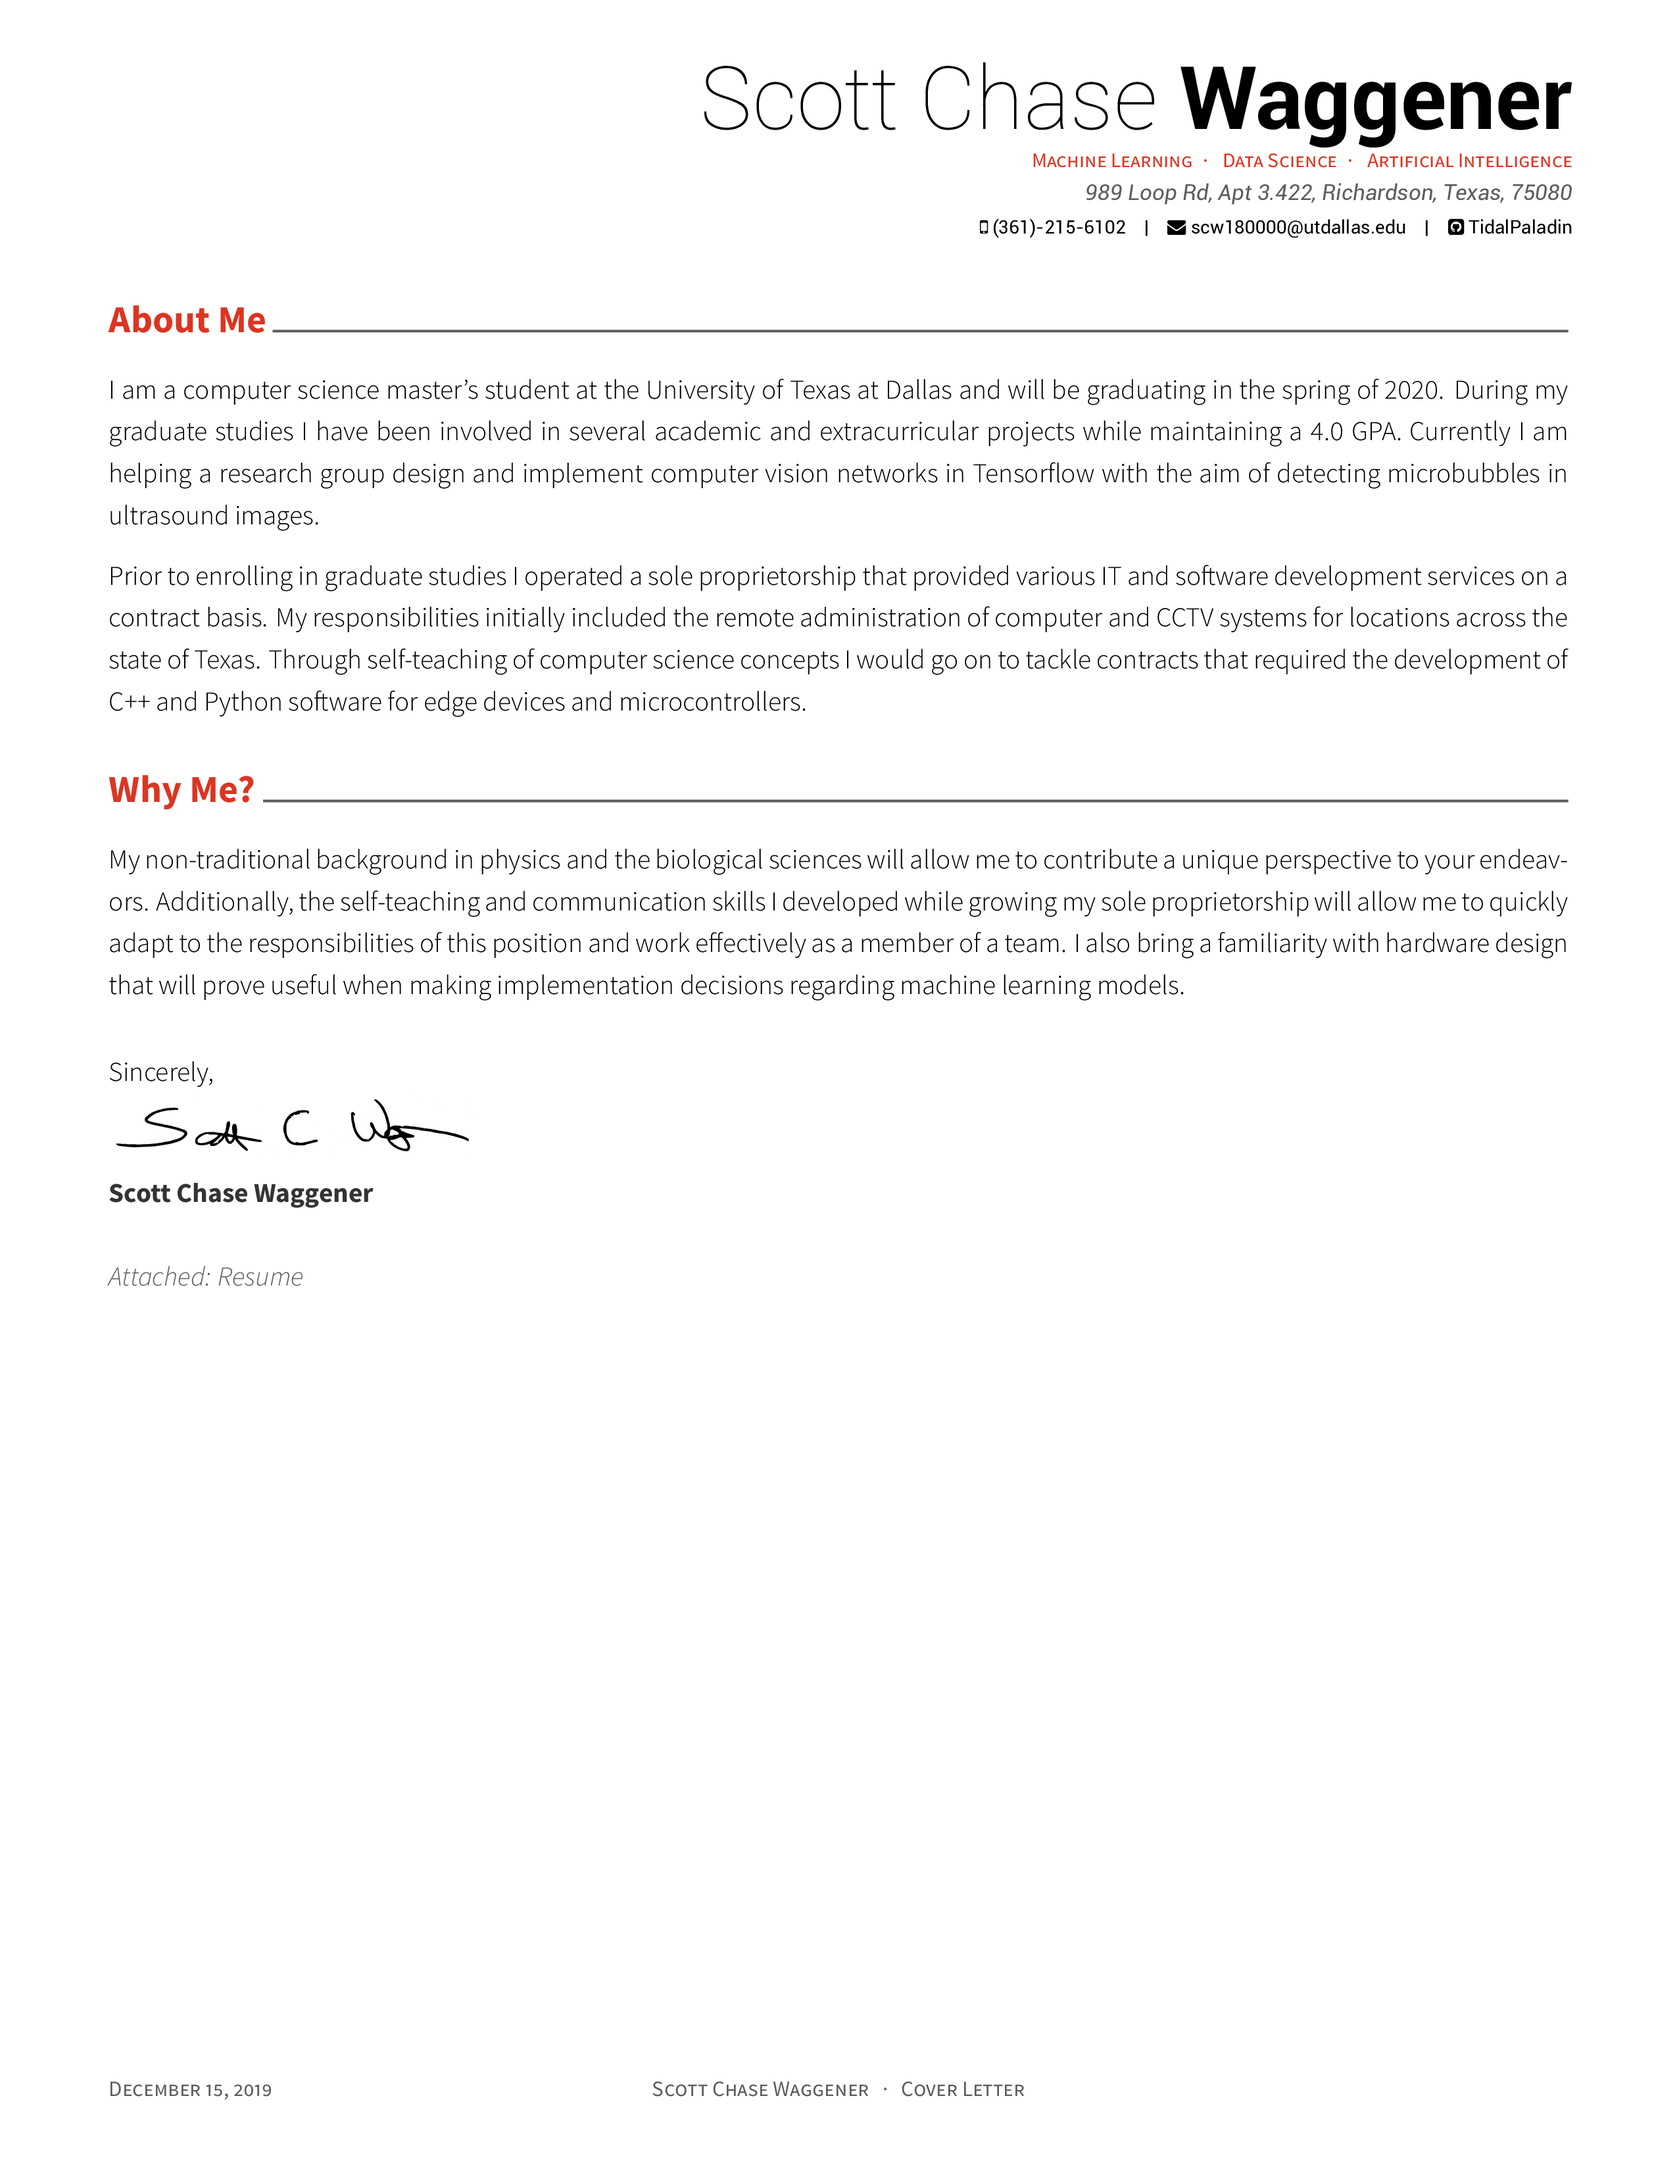
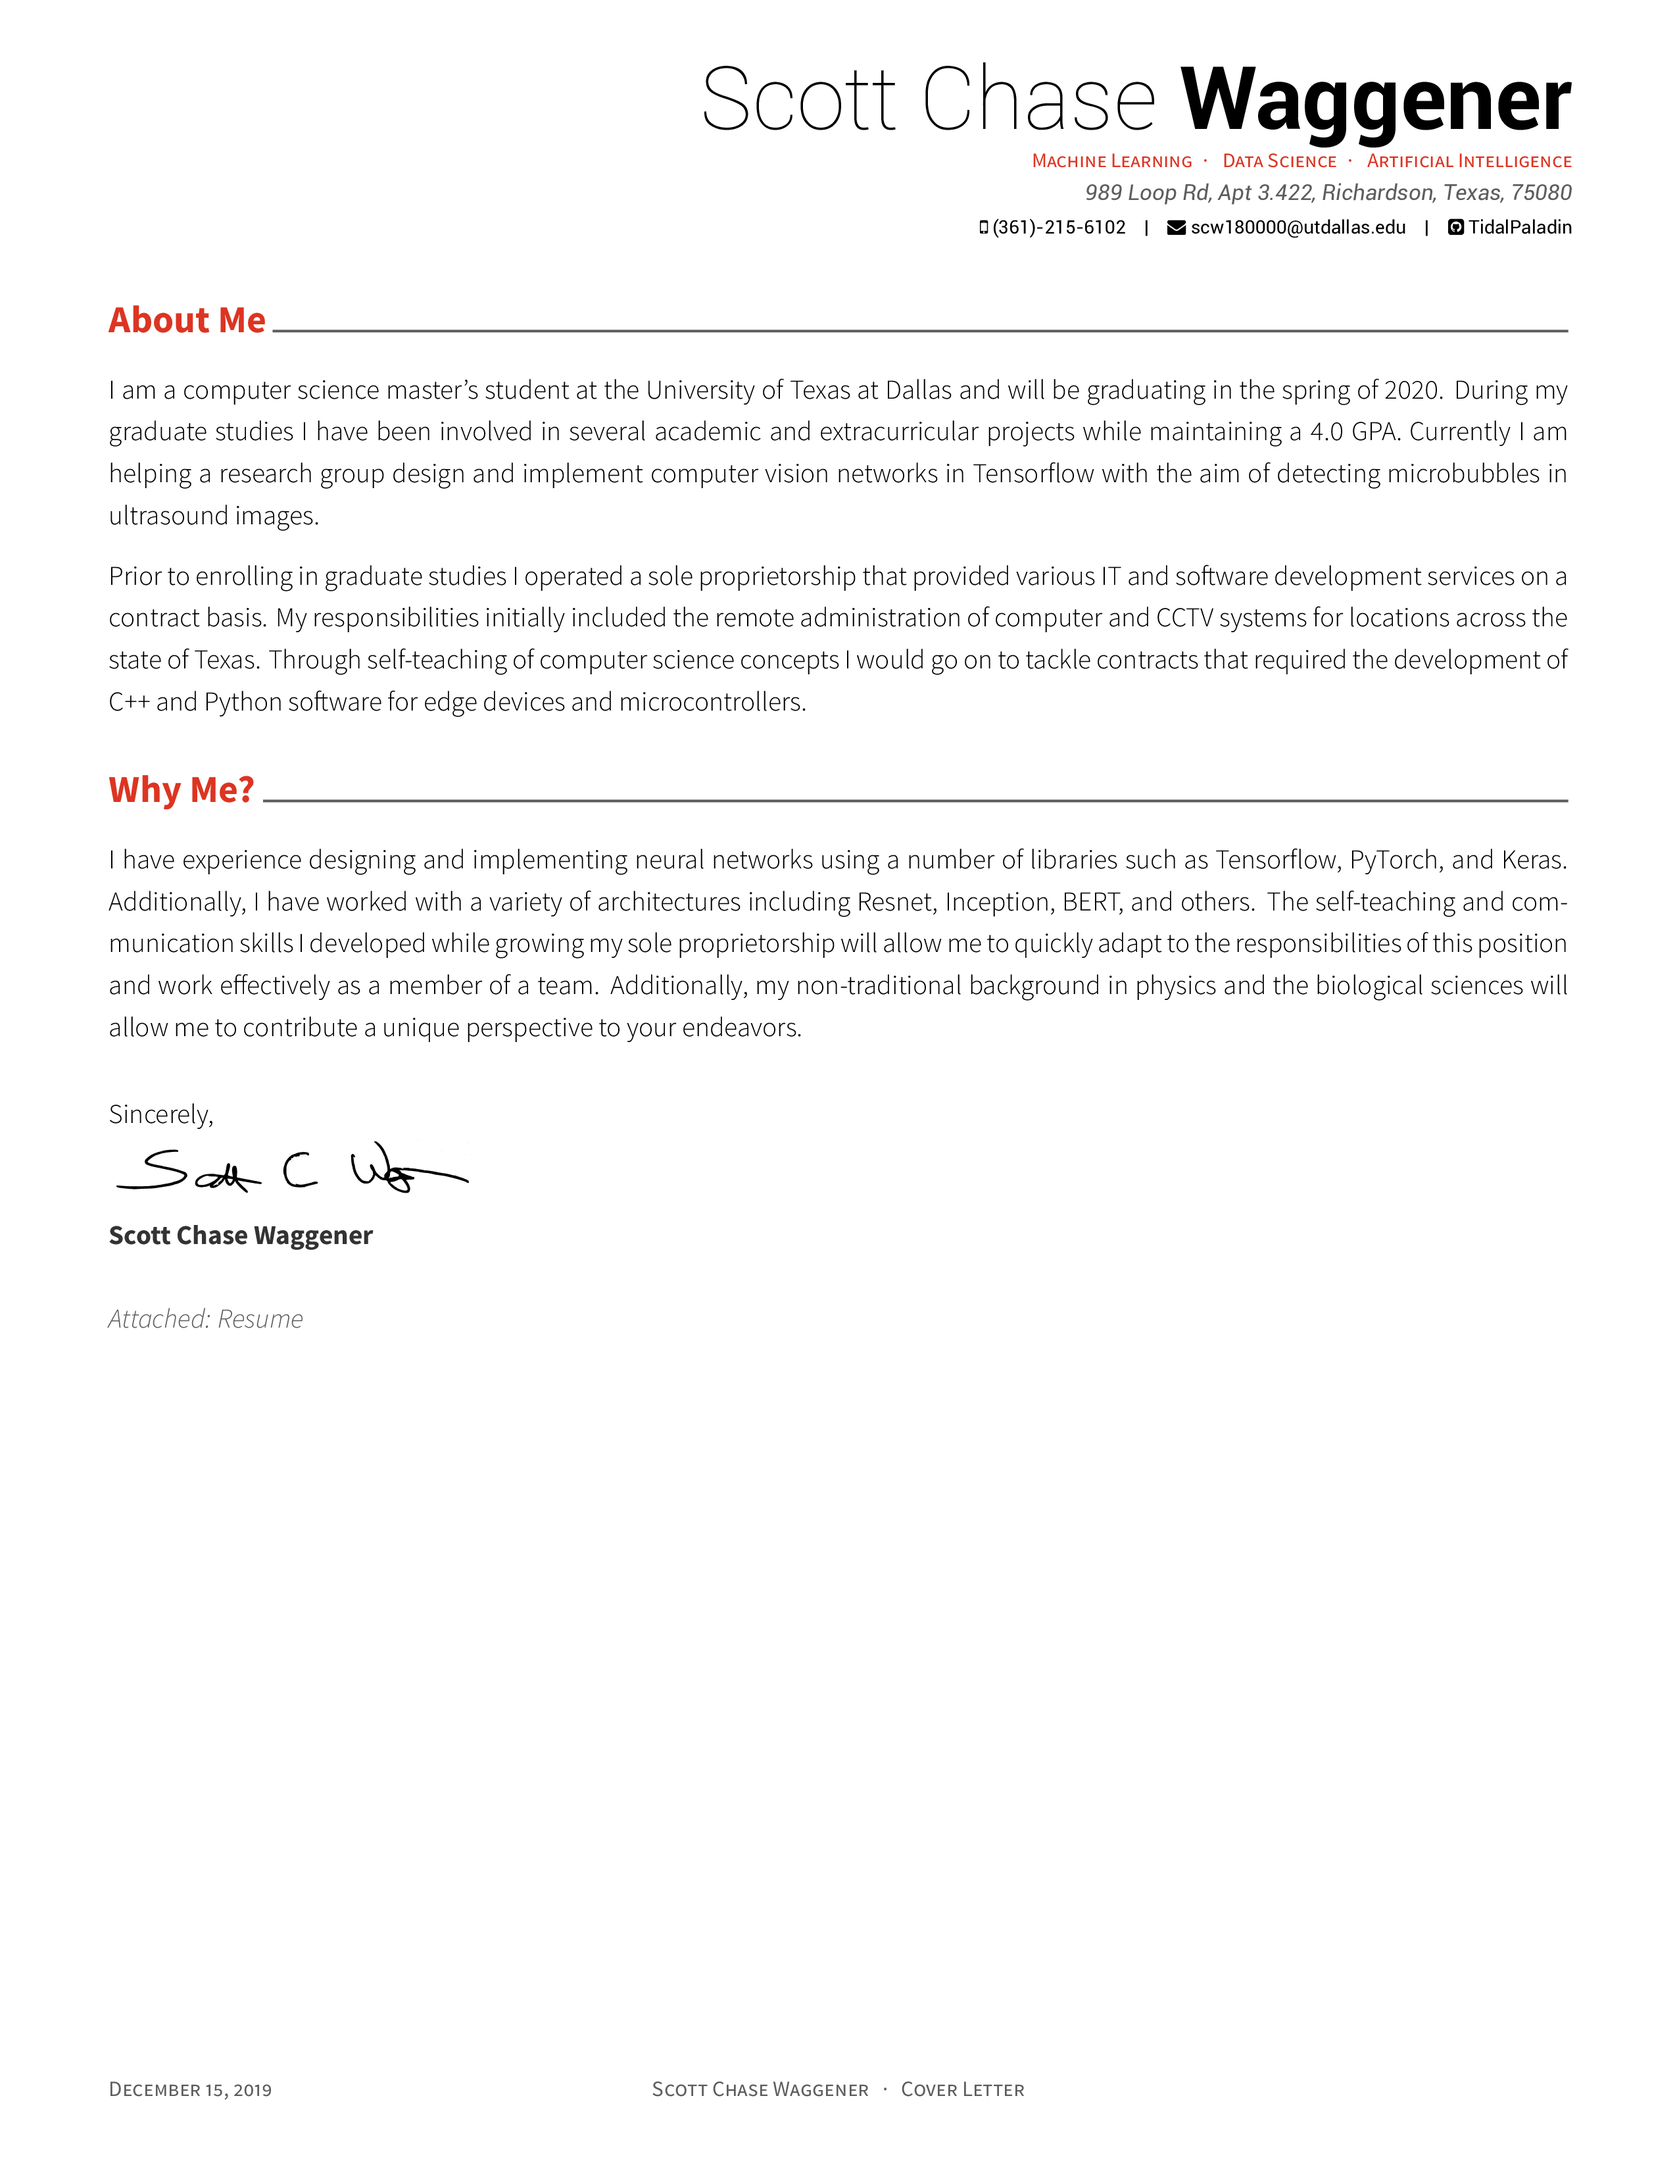
fix whyme in generic coverletter

Changed region(s): [[0.062, 0.3745, 0.9294, 0.593]]

diff --git a/coverletter-generic/extra/whyme.tex b/coverletter-generic/extra/whyme.tex
@@ -1,13 +1,1 @@
-\lettersection{Why Me?}
-\begin{cvletter}
-
-	My non-traditional background in physics and the biological sciences
-	will allow me to contribute a unique perspective to your endeavors.
-	Additionally, the self-teaching and communication skills I developed
-	while growing my sole proprietorship will allow me to quickly adapt
-	to the responsibilities of this position and work effectively
-	as a member of a team. I also bring a familiarity with hardware
-	design that will prove useful when making implementation decisions
-	regarding machine learning models.
-
-\end{cvletter}
+../../coverletter/extra/whyme.tex
